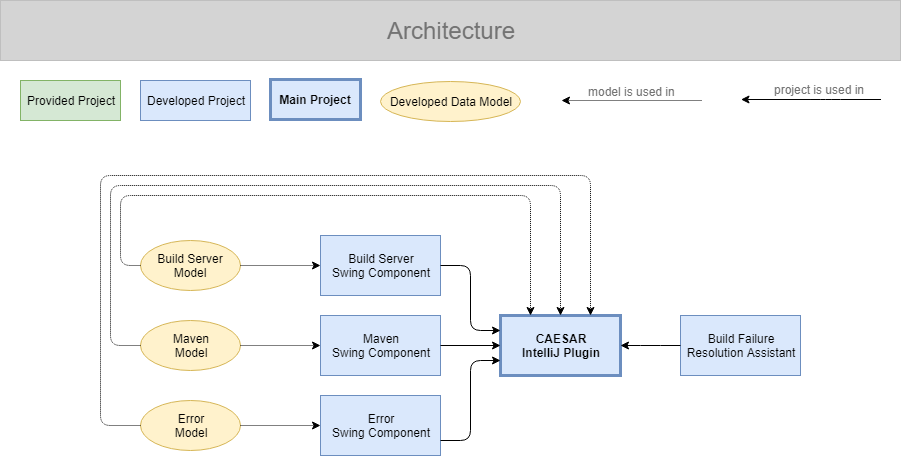
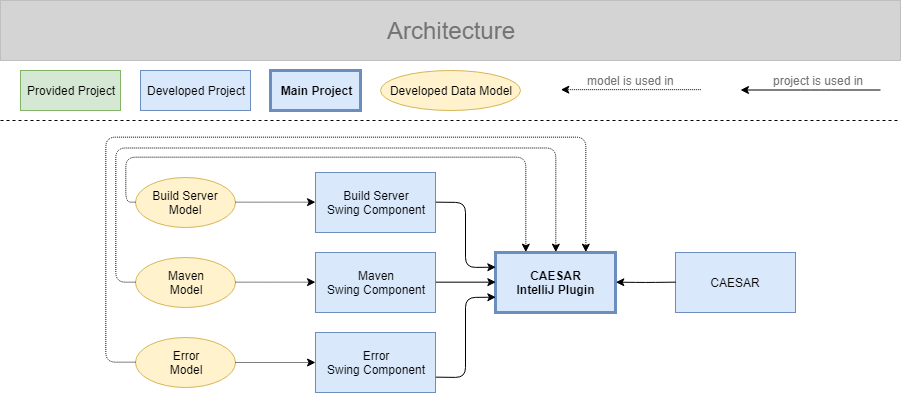
Update architecture visualization

diff --git a/README.md b/README.md
@@ -32,7 +32,7 @@ This project contains the following sub projects:
 | [Build Server Swing Component](build-server-swing-component) | Represents data of a build server model graphically using `javax.swing` components. |
 | [Maven Swing Component](maven-swing-component) | Represents data of a maven model graphically using `javax.swing` components. |
 | [Error Swing Component](error-swing-component) | Represents data of a error model graphically using `javax.swing` components. |
-| [IntelliJ Plugin](intellij-build-failure-resolution-assistant) | Assists in fixing build failures by downloading a build log, parsing and summarizing it, reporting its status and possible errors, stashing open local changes, checking out the failed version, providing hints on where possible errors happened, and let the user fix the error. |
+| [IntelliJ Plugin](caesar-intellij-plugin) | Assists in fixing build failures by downloading a build log, parsing and summarizing it, reporting its status and possible errors, stashing open local changes, checking out the failed version, providing hints on where possible errors happened, and let the user fix the error. |
 
 ## Architecture
 
